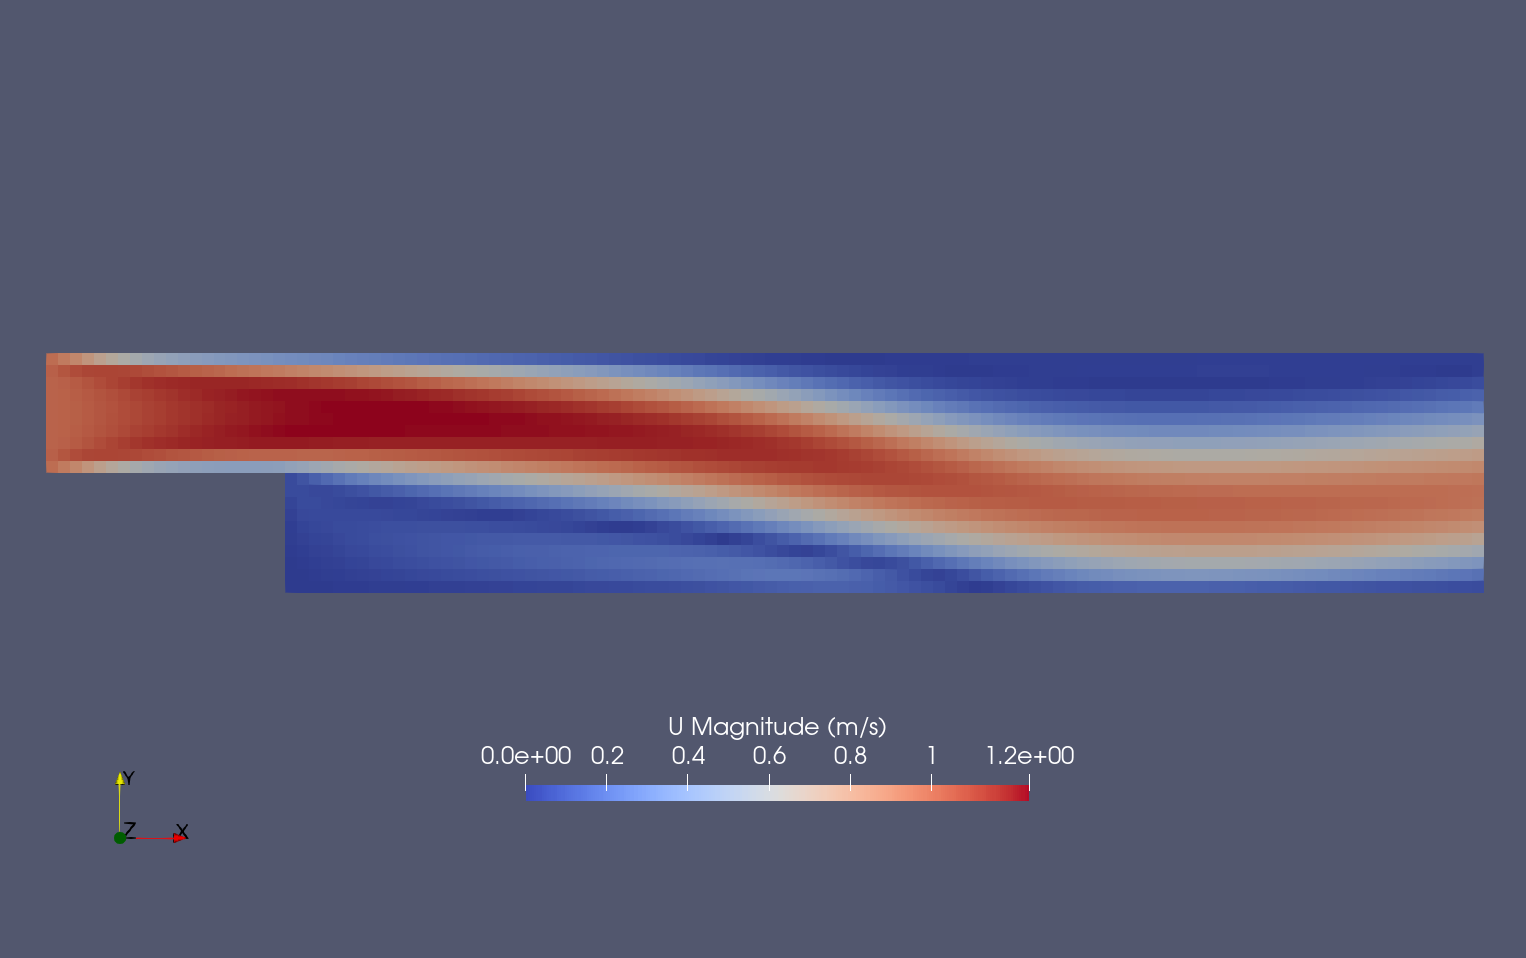
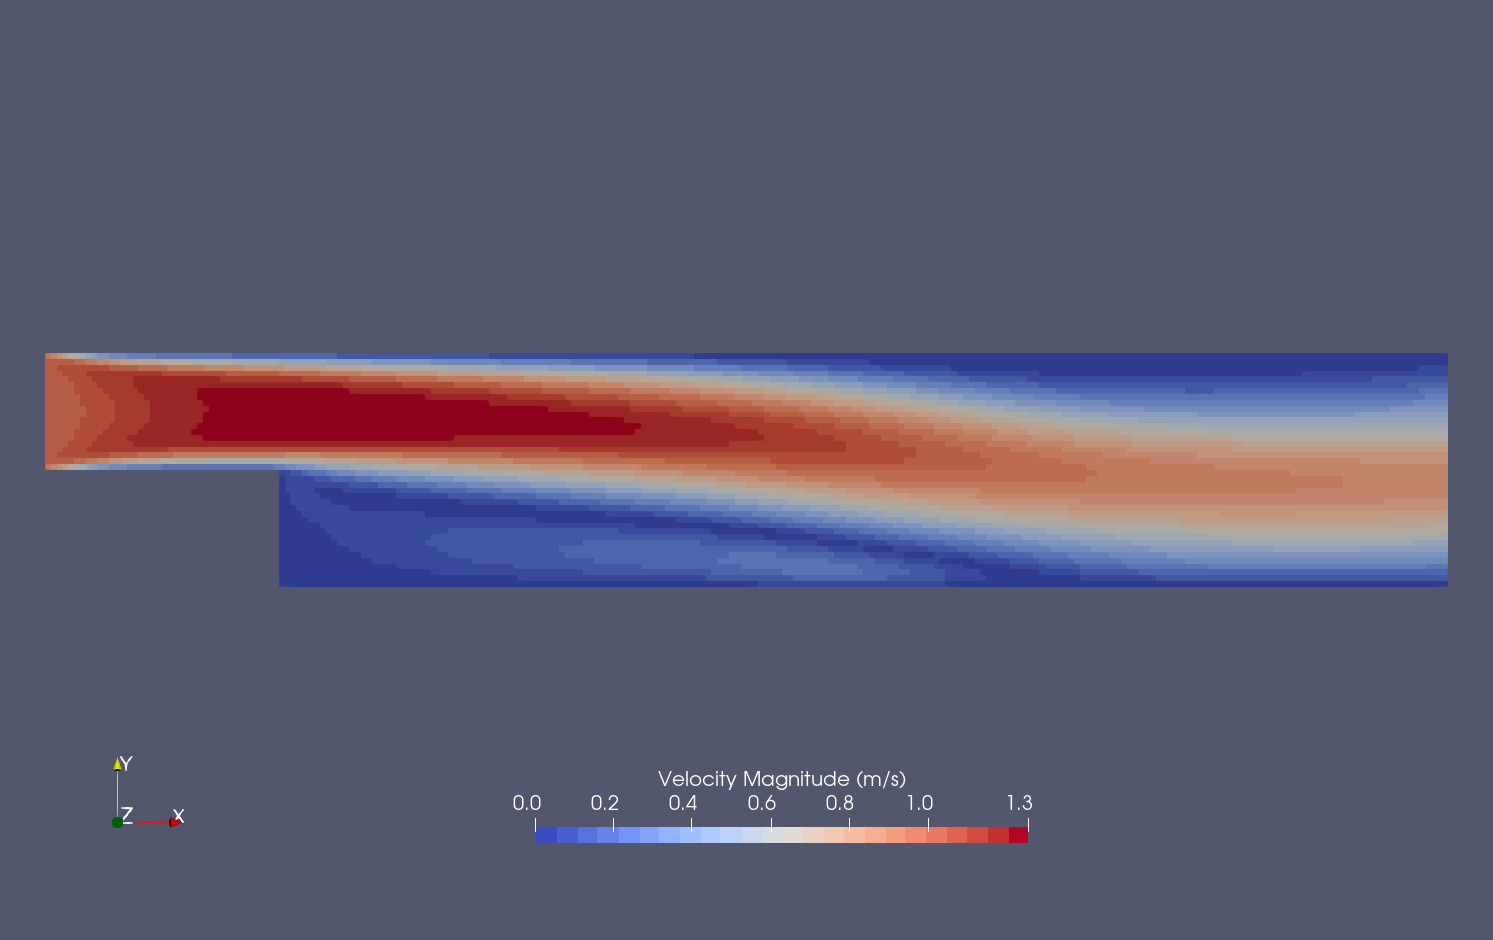
More results added

diff --git a/3_discretization/3_postprocessing.md b/3_discretization/3_postprocessing.md
@@ -18,7 +18,7 @@ To prepare ParaView to display the data of interest, the data at the required ti
 
 The solution at the last time step of $$t = 1\,\text{s}$$ can be viewed by using the **VCR Controls** at the very top of the ParaView window and click the button for **Last Frame**
 
-![Backward-facing step paraview vcr controls](figures/paraview-menu-VCR-controls.png):
+![Backward-facing step paraview vcr controls](figures/paraview-menu-VCR-controls.png)
 
 ## Coloring Surfaces by Flow Property
 
@@ -27,7 +27,18 @@ To color the mesh by velocity magnitude (i.e. the velocity contour) of the flow,
 2. Select **Coloring** by velocity magnitude U at the cell centers, and
 3. Select **Rescale to Data Range**, if necessary.
 
-![Backward-facing step paraview velocity contour settings](figures/paraview-velocity-contour-settings.png):
+![Backward-facing step paraview velocity contour settings](figures/paraview-velocity-contour-settings.png)
 
 The velocity field looks like expected: The velocity magnitude at the inlet is about  $$1\,\text{m/s}$$. The flow detaches as it goes over the backwards-facing step and reattached further downstream. Due to the increase in cross-sectional area, the flow decelerates slightly.
 
+A colour legend can be added by clicking the **Toggle Color Legend Visibility** button in the **Active Variable Controls** toolbar. The legend can be located in the image window by drag and drop with the mouse.
+
+![Backward-facing step paraview variable controls](figures/paraview-menu-variable_controls.png)
+
+The **Edit Color Map** button in the **Active Variable Controls** toolbar opens the **Color Map Editor** window, where the user can set a range of attributes of the colour scale and the color bar.
+
+![Backward-facing step paraview color bar settings](figures/paraview-menu-color-bar.png)
+
+In particular, ParaView defaults to using a colour scale of blue to white to red rather than the more common blue to green to red (rainbow). Therefore the ﬁrst time that the user executes ParaView, they may wish to change the colour scale. This can be done by selecting the **Choose Preset** button (with the heart icon) in the **Color Map Editor**. The conventional color scale for CFD is Blue to Red Rainbow can be found when the user types the name in the **Search** bar.
+
+After selecting Blue to Red Rainbow and clicking **Apply** and **Close**, the user can click the **Save as Default** button at the absolute bottom of the panel (ﬁle save symbol) so that ParaView will always adopt this type of colour bar. The user can also edit the color legend properties, such as text size, font selection and numbering format for the scale, by clicking the **Edit Color Legend Properties** to the far right of the search bar, as shown in the figure above.

diff --git a/3_discretization/1_preprocessing.md b/3_discretization/1_preprocessing.md
@@ -202,13 +202,13 @@ deltaT          6.25e-04;
 
 ### Writing out Results
 
-As the simulation progresses, results are written out at certain intervals of time that can later be analysed and visualized. The `writeControl` keyword presents several options for setting the iteration interval at which the results are written. Here, the `runTime` option is selected which specifies that results are written out at certain simulation time intervals. Here, the `writeInterval` keyword sets this interval to `0.02`, which means that every 0.02 seconds of simulation time a results folder will be written. When OpenFOAM writes out results, it creates a new directory *named as the current time* containing a individual file for each field written out.
+As the simulation progresses, results are written out at certain intervals of time that can later be analysed and visualized. The `writeControl` keyword presents several options for setting the iteration interval at which the results are written. Here, the `runTime` option is selected which specifies that results are written out at certain simulation time intervals. Here, the `writeInterval` keyword sets this interval to `0.05`, which means that every 0.05 seconds of simulation time a results folder will be written. When OpenFOAM writes out results, it creates a new directory *named as the current time* containing a individual file for each field written out.
 
 The corresponding lines in the `controlDict` look as follows:
 ```
 writeControl    runTime;
 
-writeInterval   0.02;
+writeInterval   0.05;
 ```
 
 
